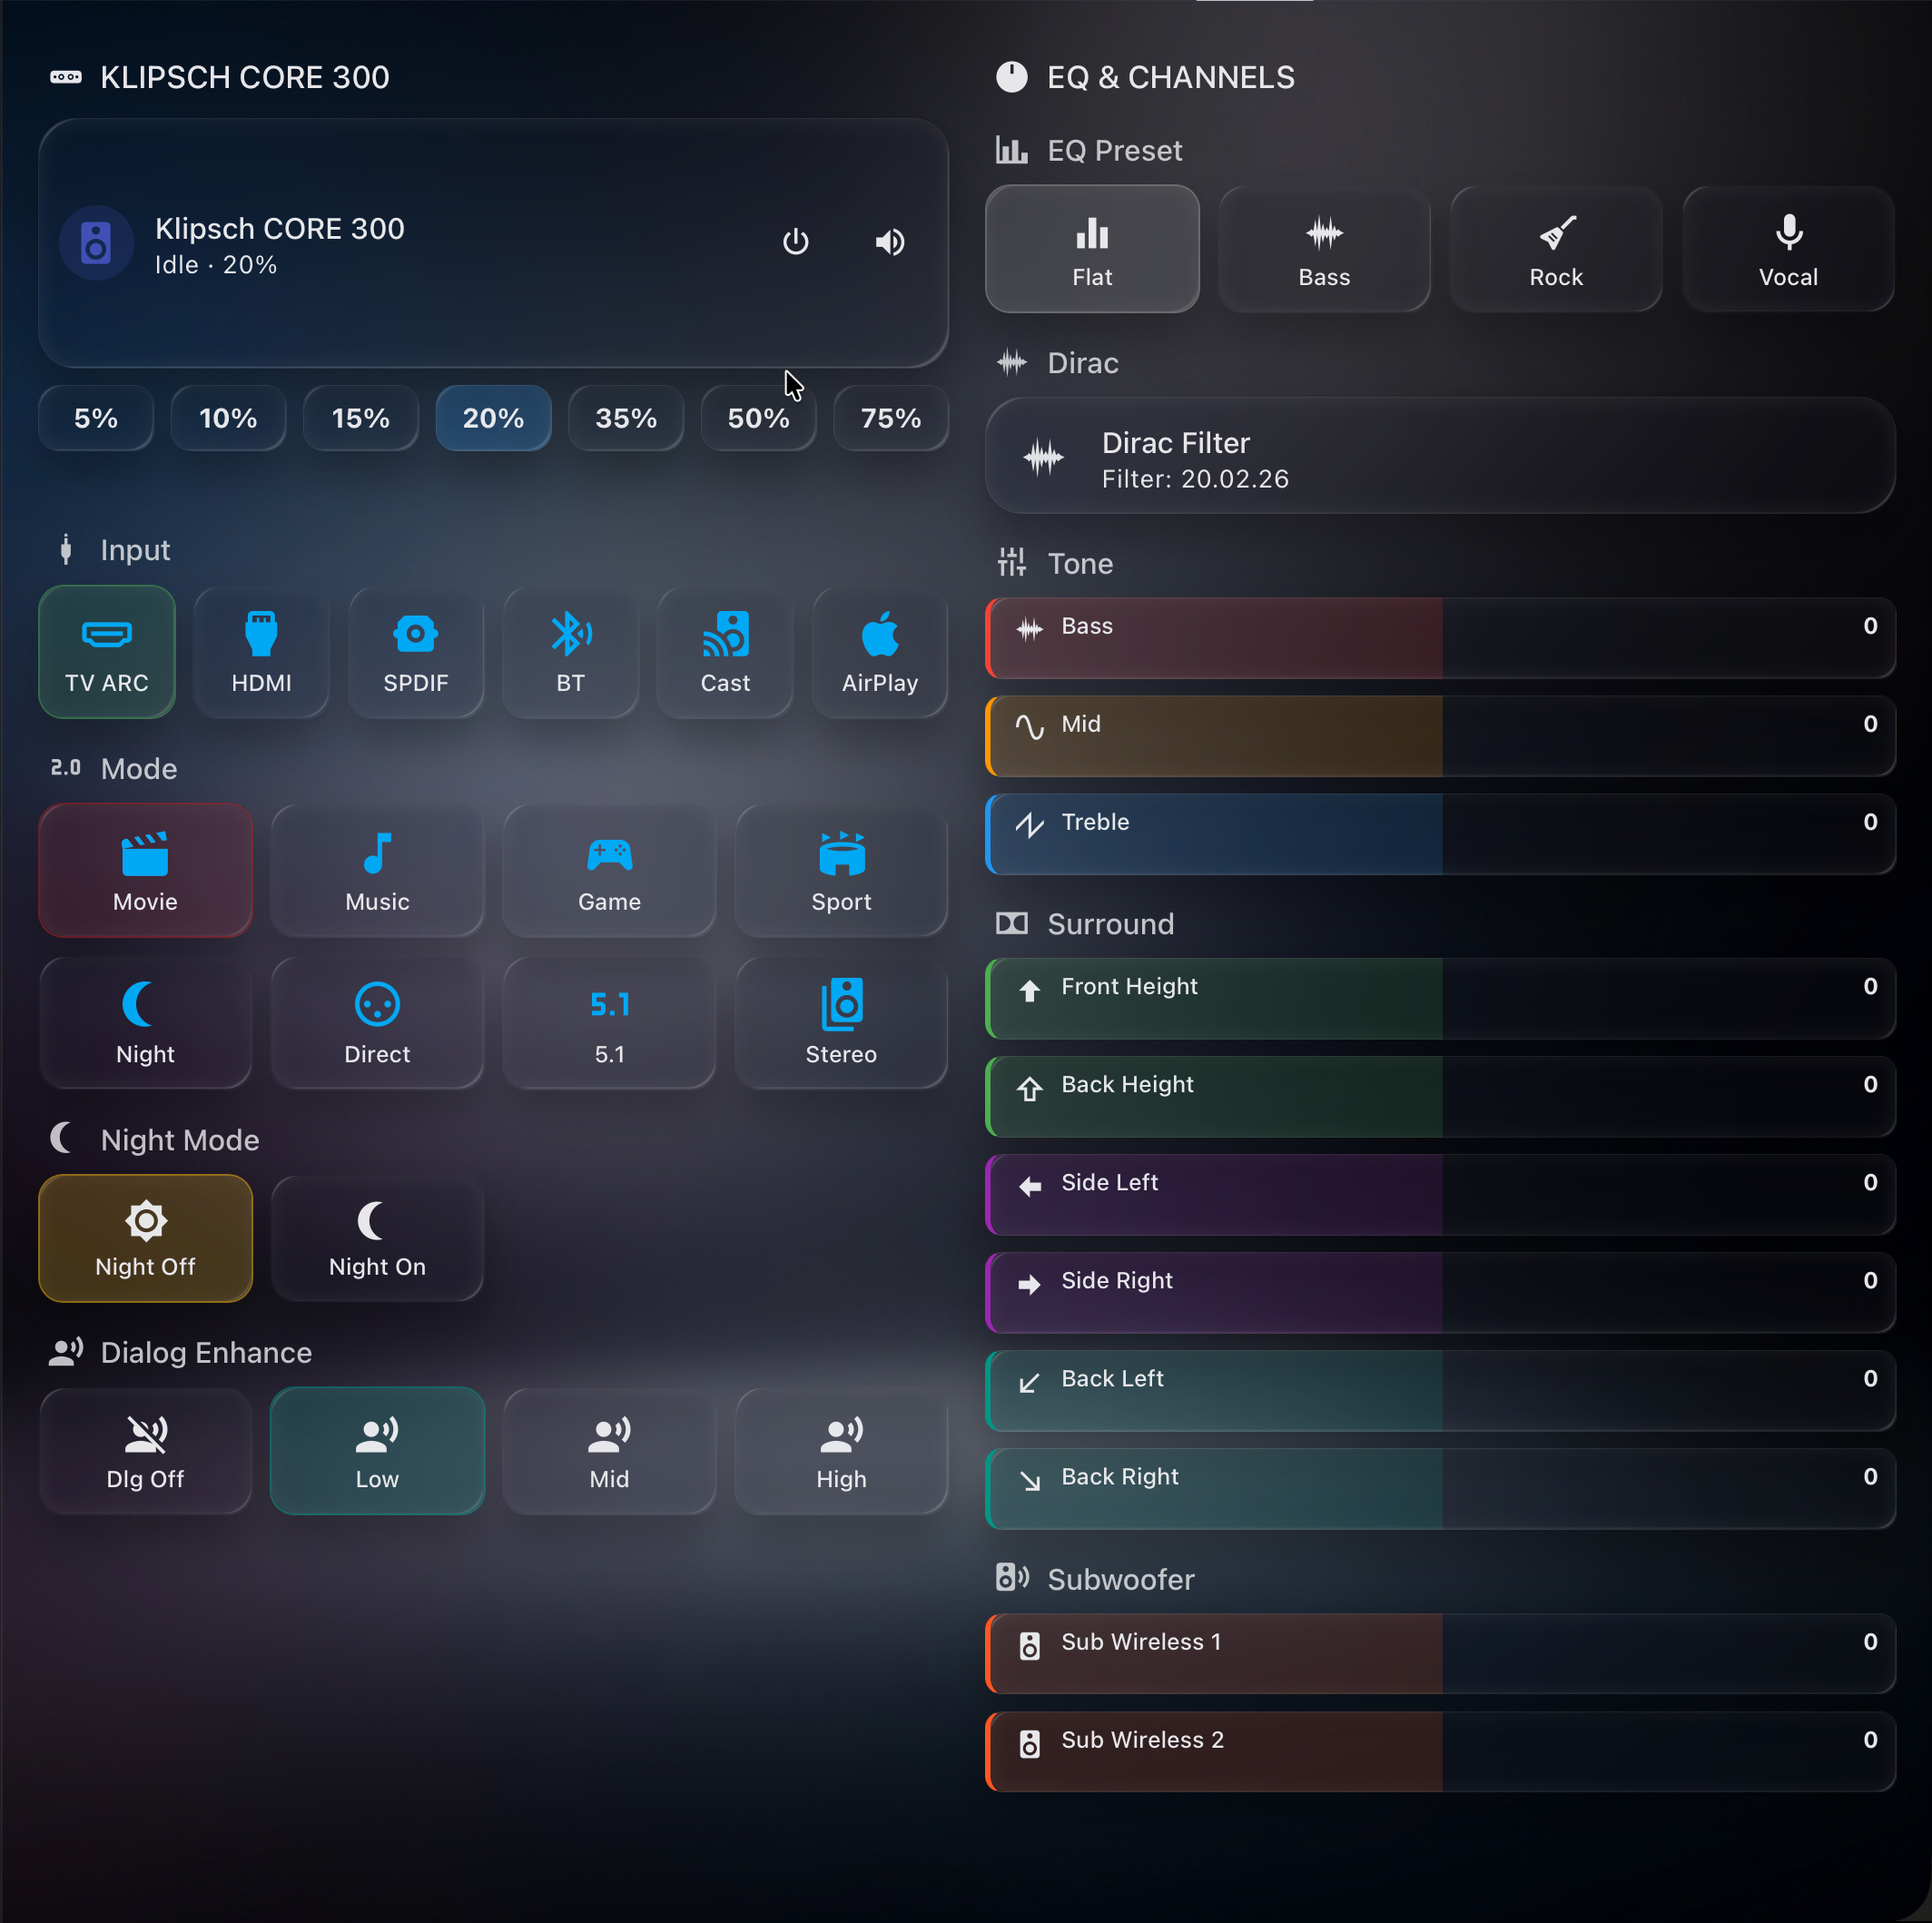
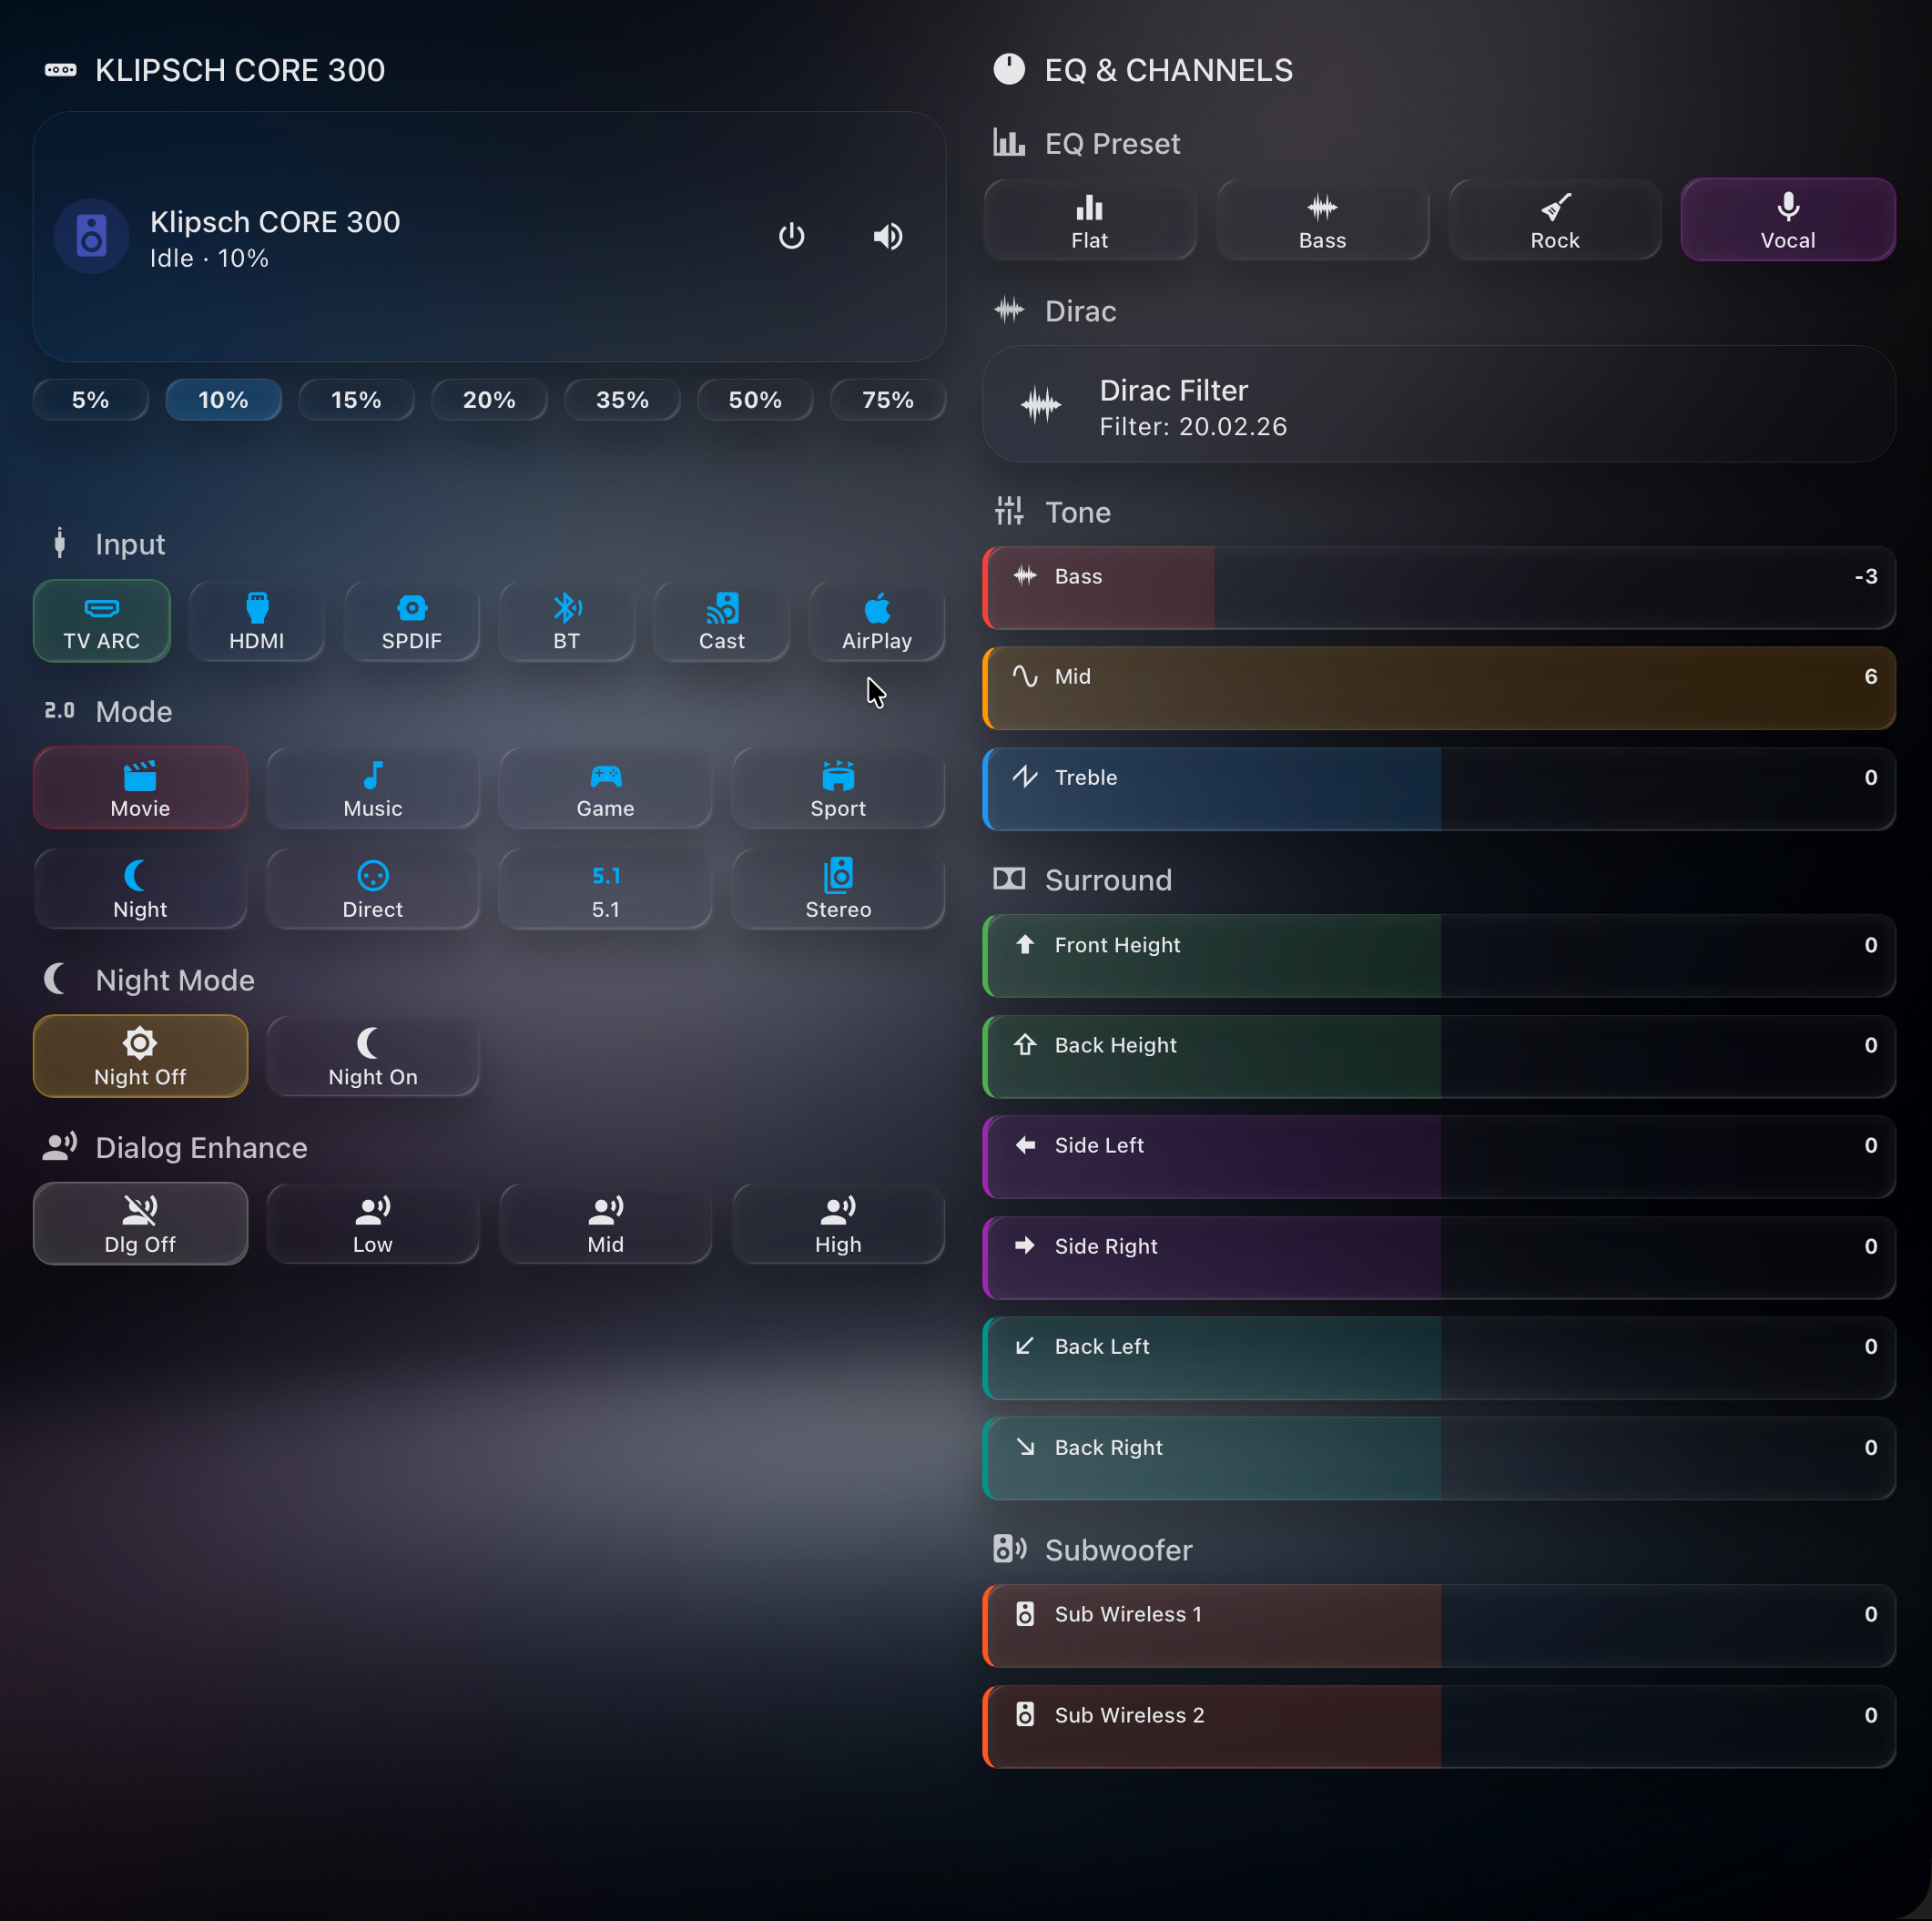
chore: point all URLs/codeowner to the new repo path (ilia-ae/klipsch_flexus)
The repository moved from razqqm/klipsch_flexus to ilia-ae/klipsch_flexus
(the old path still redirects). Update README badges/links (en + ru/de/es/pt),
SECURITY.md, and manifest.json (documentation, issue_tracker, codeowners) to the
canonical owner.

diff --git a/README.md b/README.md
@@ -1,15 +1,15 @@
 # Klipsch Flexus
 
 [![HACS Custom](https://img.shields.io/badge/HACS-Custom-41BDF5.svg?style=for-the-badge)](https://hacs.xyz/)
-[![GitHub Release](https://img.shields.io/github/release/razqqm/klipsch_flexus.svg?style=for-the-badge)](https://github.com/razqqm/klipsch_flexus/releases)
-[![License](https://img.shields.io/github/license/razqqm/klipsch_flexus.svg?style=for-the-badge)](LICENSE)
+[![GitHub Release](https://img.shields.io/github/release/ilia-ae/klipsch_flexus.svg?style=for-the-badge)](https://github.com/ilia-ae/klipsch_flexus/releases)
+[![License](https://img.shields.io/github/license/ilia-ae/klipsch_flexus.svg?style=for-the-badge)](LICENSE)
 [![Auto Discovery](https://img.shields.io/badge/Auto_Discovery-Zeroconf-44cc11.svg?style=for-the-badge)](#auto-discovery)
 
-[![Validate](https://github.com/razqqm/klipsch_flexus/actions/workflows/validate.yaml/badge.svg)](https://github.com/razqqm/klipsch_flexus/actions/workflows/validate.yaml)
-[![Hassfest](https://github.com/razqqm/klipsch_flexus/actions/workflows/hassfest.yaml/badge.svg)](https://github.com/razqqm/klipsch_flexus/actions/workflows/hassfest.yaml)
-[![CI](https://github.com/razqqm/klipsch_flexus/actions/workflows/ci.yaml/badge.svg)](https://github.com/razqqm/klipsch_flexus/actions/workflows/ci.yaml)
-[![CodeQL](https://github.com/razqqm/klipsch_flexus/actions/workflows/github-code-scanning/codeql/badge.svg)](https://github.com/razqqm/klipsch_flexus/actions/workflows/github-code-scanning/codeql)
-[![Copilot](https://img.shields.io/badge/Copilot-Code_Review-8957e5.svg)](https://github.com/razqqm/klipsch_flexus/actions/workflows/copilot-pull-request-reviewer/copilot-pull-request-reviewer)
+[![Validate](https://github.com/ilia-ae/klipsch_flexus/actions/workflows/validate.yaml/badge.svg)](https://github.com/ilia-ae/klipsch_flexus/actions/workflows/validate.yaml)
+[![Hassfest](https://github.com/ilia-ae/klipsch_flexus/actions/workflows/hassfest.yaml/badge.svg)](https://github.com/ilia-ae/klipsch_flexus/actions/workflows/hassfest.yaml)
+[![CI](https://github.com/ilia-ae/klipsch_flexus/actions/workflows/ci.yaml/badge.svg)](https://github.com/ilia-ae/klipsch_flexus/actions/workflows/ci.yaml)
+[![CodeQL](https://github.com/ilia-ae/klipsch_flexus/actions/workflows/github-code-scanning/codeql/badge.svg)](https://github.com/ilia-ae/klipsch_flexus/actions/workflows/github-code-scanning/codeql)
+[![Copilot](https://img.shields.io/badge/Copilot-Code_Review-8957e5.svg)](https://github.com/ilia-ae/klipsch_flexus/actions/workflows/copilot-pull-request-reviewer/copilot-pull-request-reviewer)
 [![Ruff](https://img.shields.io/badge/code%20style-ruff-000000.svg)](https://github.com/astral-sh/ruff)
 
 🌐 **English** | [Русский](docs/README_ru.md) | [Deutsch](docs/README_de.md) | [Español](docs/README_es.md) | [Português](docs/README_pt.md)  

diff --git a/docs/README_de.md b/docs/README_de.md
@@ -1,15 +1,15 @@
 # Klipsch Flexus
 
 [![HACS Custom](https://img.shields.io/badge/HACS-Custom-41BDF5.svg?style=for-the-badge)](https://hacs.xyz/)
-[![GitHub Release](https://img.shields.io/github/release/razqqm/klipsch_flexus.svg?style=for-the-badge)](https://github.com/razqqm/klipsch_flexus/releases)
-[![License](https://img.shields.io/github/license/razqqm/klipsch_flexus.svg?style=for-the-badge)](../LICENSE)
+[![GitHub Release](https://img.shields.io/github/release/ilia-ae/klipsch_flexus.svg?style=for-the-badge)](https://github.com/ilia-ae/klipsch_flexus/releases)
+[![License](https://img.shields.io/github/license/ilia-ae/klipsch_flexus.svg?style=for-the-badge)](../LICENSE)
 [![Auto Discovery](https://img.shields.io/badge/Auto_Discovery-Zeroconf-44cc11.svg?style=for-the-badge)](#automatische-erkennung)
 
-[![Validate](https://github.com/razqqm/klipsch_flexus/actions/workflows/validate.yaml/badge.svg)](https://github.com/razqqm/klipsch_flexus/actions/workflows/validate.yaml)
-[![Hassfest](https://github.com/razqqm/klipsch_flexus/actions/workflows/hassfest.yaml/badge.svg)](https://github.com/razqqm/klipsch_flexus/actions/workflows/hassfest.yaml)
-[![CI](https://github.com/razqqm/klipsch_flexus/actions/workflows/ci.yaml/badge.svg)](https://github.com/razqqm/klipsch_flexus/actions/workflows/ci.yaml)
-[![CodeQL](https://github.com/razqqm/klipsch_flexus/actions/workflows/github-code-scanning/codeql/badge.svg)](https://github.com/razqqm/klipsch_flexus/actions/workflows/github-code-scanning/codeql)
-[![Copilot](https://img.shields.io/badge/Copilot-Code_Review-8957e5.svg)](https://github.com/razqqm/klipsch_flexus/actions/workflows/copilot-pull-request-reviewer/copilot-pull-request-reviewer)
+[![Validate](https://github.com/ilia-ae/klipsch_flexus/actions/workflows/validate.yaml/badge.svg)](https://github.com/ilia-ae/klipsch_flexus/actions/workflows/validate.yaml)
+[![Hassfest](https://github.com/ilia-ae/klipsch_flexus/actions/workflows/hassfest.yaml/badge.svg)](https://github.com/ilia-ae/klipsch_flexus/actions/workflows/hassfest.yaml)
+[![CI](https://github.com/ilia-ae/klipsch_flexus/actions/workflows/ci.yaml/badge.svg)](https://github.com/ilia-ae/klipsch_flexus/actions/workflows/ci.yaml)
+[![CodeQL](https://github.com/ilia-ae/klipsch_flexus/actions/workflows/github-code-scanning/codeql/badge.svg)](https://github.com/ilia-ae/klipsch_flexus/actions/workflows/github-code-scanning/codeql)
+[![Copilot](https://img.shields.io/badge/Copilot-Code_Review-8957e5.svg)](https://github.com/ilia-ae/klipsch_flexus/actions/workflows/copilot-pull-request-reviewer/copilot-pull-request-reviewer)
 [![Ruff](https://img.shields.io/badge/code%20style-ruff-000000.svg)](https://github.com/astral-sh/ruff)
 
 🌐 [English](../README.md) | [Русский](README_ru.md) | **Deutsch** | [Español](README_es.md) | [Português](README_pt.md)

diff --git a/docs/README_es.md b/docs/README_es.md
@@ -1,15 +1,15 @@
 # Klipsch Flexus
 
 [![HACS Custom](https://img.shields.io/badge/HACS-Custom-41BDF5.svg?style=for-the-badge)](https://hacs.xyz/)
-[![GitHub Release](https://img.shields.io/github/release/razqqm/klipsch_flexus.svg?style=for-the-badge)](https://github.com/razqqm/klipsch_flexus/releases)
-[![License](https://img.shields.io/github/license/razqqm/klipsch_flexus.svg?style=for-the-badge)](../LICENSE)
+[![GitHub Release](https://img.shields.io/github/release/ilia-ae/klipsch_flexus.svg?style=for-the-badge)](https://github.com/ilia-ae/klipsch_flexus/releases)
+[![License](https://img.shields.io/github/license/ilia-ae/klipsch_flexus.svg?style=for-the-badge)](../LICENSE)
 [![Auto Discovery](https://img.shields.io/badge/Auto_Discovery-Zeroconf-44cc11.svg?style=for-the-badge)](#descubrimiento-automático)
 
-[![Validate](https://github.com/razqqm/klipsch_flexus/actions/workflows/validate.yaml/badge.svg)](https://github.com/razqqm/klipsch_flexus/actions/workflows/validate.yaml)
-[![Hassfest](https://github.com/razqqm/klipsch_flexus/actions/workflows/hassfest.yaml/badge.svg)](https://github.com/razqqm/klipsch_flexus/actions/workflows/hassfest.yaml)
-[![CI](https://github.com/razqqm/klipsch_flexus/actions/workflows/ci.yaml/badge.svg)](https://github.com/razqqm/klipsch_flexus/actions/workflows/ci.yaml)
-[![CodeQL](https://github.com/razqqm/klipsch_flexus/actions/workflows/github-code-scanning/codeql/badge.svg)](https://github.com/razqqm/klipsch_flexus/actions/workflows/github-code-scanning/codeql)
-[![Copilot](https://img.shields.io/badge/Copilot-Code_Review-8957e5.svg)](https://github.com/razqqm/klipsch_flexus/actions/workflows/copilot-pull-request-reviewer/copilot-pull-request-reviewer)
+[![Validate](https://github.com/ilia-ae/klipsch_flexus/actions/workflows/validate.yaml/badge.svg)](https://github.com/ilia-ae/klipsch_flexus/actions/workflows/validate.yaml)
+[![Hassfest](https://github.com/ilia-ae/klipsch_flexus/actions/workflows/hassfest.yaml/badge.svg)](https://github.com/ilia-ae/klipsch_flexus/actions/workflows/hassfest.yaml)
+[![CI](https://github.com/ilia-ae/klipsch_flexus/actions/workflows/ci.yaml/badge.svg)](https://github.com/ilia-ae/klipsch_flexus/actions/workflows/ci.yaml)
+[![CodeQL](https://github.com/ilia-ae/klipsch_flexus/actions/workflows/github-code-scanning/codeql/badge.svg)](https://github.com/ilia-ae/klipsch_flexus/actions/workflows/github-code-scanning/codeql)
+[![Copilot](https://img.shields.io/badge/Copilot-Code_Review-8957e5.svg)](https://github.com/ilia-ae/klipsch_flexus/actions/workflows/copilot-pull-request-reviewer/copilot-pull-request-reviewer)
 [![Ruff](https://img.shields.io/badge/code%20style-ruff-000000.svg)](https://github.com/astral-sh/ruff)
 
 🌐 [English](../README.md) | [Русский](README_ru.md) | [Deutsch](README_de.md) | **Español** | [Português](README_pt.md)

diff --git a/docs/README_pt.md b/docs/README_pt.md
@@ -1,15 +1,15 @@
 # Klipsch Flexus
 
 [![HACS Custom](https://img.shields.io/badge/HACS-Custom-41BDF5.svg?style=for-the-badge)](https://hacs.xyz/)
-[![GitHub Release](https://img.shields.io/github/release/razqqm/klipsch_flexus.svg?style=for-the-badge)](https://github.com/razqqm/klipsch_flexus/releases)
-[![License](https://img.shields.io/github/license/razqqm/klipsch_flexus.svg?style=for-the-badge)](../LICENSE)
+[![GitHub Release](https://img.shields.io/github/release/ilia-ae/klipsch_flexus.svg?style=for-the-badge)](https://github.com/ilia-ae/klipsch_flexus/releases)
+[![License](https://img.shields.io/github/license/ilia-ae/klipsch_flexus.svg?style=for-the-badge)](../LICENSE)
 [![Auto Discovery](https://img.shields.io/badge/Auto_Discovery-Zeroconf-44cc11.svg?style=for-the-badge)](#descoberta-automática)
 
-[![Validate](https://github.com/razqqm/klipsch_flexus/actions/workflows/validate.yaml/badge.svg)](https://github.com/razqqm/klipsch_flexus/actions/workflows/validate.yaml)
-[![Hassfest](https://github.com/razqqm/klipsch_flexus/actions/workflows/hassfest.yaml/badge.svg)](https://github.com/razqqm/klipsch_flexus/actions/workflows/hassfest.yaml)
-[![CI](https://github.com/razqqm/klipsch_flexus/actions/workflows/ci.yaml/badge.svg)](https://github.com/razqqm/klipsch_flexus/actions/workflows/ci.yaml)
-[![CodeQL](https://github.com/razqqm/klipsch_flexus/actions/workflows/github-code-scanning/codeql/badge.svg)](https://github.com/razqqm/klipsch_flexus/actions/workflows/github-code-scanning/codeql)
-[![Copilot](https://img.shields.io/badge/Copilot-Code_Review-8957e5.svg)](https://github.com/razqqm/klipsch_flexus/actions/workflows/copilot-pull-request-reviewer/copilot-pull-request-reviewer)
+[![Validate](https://github.com/ilia-ae/klipsch_flexus/actions/workflows/validate.yaml/badge.svg)](https://github.com/ilia-ae/klipsch_flexus/actions/workflows/validate.yaml)
+[![Hassfest](https://github.com/ilia-ae/klipsch_flexus/actions/workflows/hassfest.yaml/badge.svg)](https://github.com/ilia-ae/klipsch_flexus/actions/workflows/hassfest.yaml)
+[![CI](https://github.com/ilia-ae/klipsch_flexus/actions/workflows/ci.yaml/badge.svg)](https://github.com/ilia-ae/klipsch_flexus/actions/workflows/ci.yaml)
+[![CodeQL](https://github.com/ilia-ae/klipsch_flexus/actions/workflows/github-code-scanning/codeql/badge.svg)](https://github.com/ilia-ae/klipsch_flexus/actions/workflows/github-code-scanning/codeql)
+[![Copilot](https://img.shields.io/badge/Copilot-Code_Review-8957e5.svg)](https://github.com/ilia-ae/klipsch_flexus/actions/workflows/copilot-pull-request-reviewer/copilot-pull-request-reviewer)
 [![Ruff](https://img.shields.io/badge/code%20style-ruff-000000.svg)](https://github.com/astral-sh/ruff)
 
 🌐 [English](../README.md) | [Русский](README_ru.md) | [Deutsch](README_de.md) | [Español](README_es.md) | **Português**

diff --git a/docs/README_ru.md b/docs/README_ru.md
@@ -1,15 +1,15 @@
 # Klipsch Flexus
 
 [![HACS Custom](https://img.shields.io/badge/HACS-Custom-41BDF5.svg?style=for-the-badge)](https://hacs.xyz/)
-[![GitHub Release](https://img.shields.io/github/release/razqqm/klipsch_flexus.svg?style=for-the-badge)](https://github.com/razqqm/klipsch_flexus/releases)
-[![License](https://img.shields.io/github/license/razqqm/klipsch_flexus.svg?style=for-the-badge)](../LICENSE)
+[![GitHub Release](https://img.shields.io/github/release/ilia-ae/klipsch_flexus.svg?style=for-the-badge)](https://github.com/ilia-ae/klipsch_flexus/releases)
+[![License](https://img.shields.io/github/license/ilia-ae/klipsch_flexus.svg?style=for-the-badge)](../LICENSE)
 [![Auto Discovery](https://img.shields.io/badge/Auto_Discovery-Zeroconf-44cc11.svg?style=for-the-badge)](#автообнаружение)
 
-[![Validate](https://github.com/razqqm/klipsch_flexus/actions/workflows/validate.yaml/badge.svg)](https://github.com/razqqm/klipsch_flexus/actions/workflows/validate.yaml)
-[![Hassfest](https://github.com/razqqm/klipsch_flexus/actions/workflows/hassfest.yaml/badge.svg)](https://github.com/razqqm/klipsch_flexus/actions/workflows/hassfest.yaml)
-[![CI](https://github.com/razqqm/klipsch_flexus/actions/workflows/ci.yaml/badge.svg)](https://github.com/razqqm/klipsch_flexus/actions/workflows/ci.yaml)
-[![CodeQL](https://github.com/razqqm/klipsch_flexus/actions/workflows/github-code-scanning/codeql/badge.svg)](https://github.com/razqqm/klipsch_flexus/actions/workflows/github-code-scanning/codeql)
-[![Copilot](https://img.shields.io/badge/Copilot-Code_Review-8957e5.svg)](https://github.com/razqqm/klipsch_flexus/actions/workflows/copilot-pull-request-reviewer/copilot-pull-request-reviewer)
+[![Validate](https://github.com/ilia-ae/klipsch_flexus/actions/workflows/validate.yaml/badge.svg)](https://github.com/ilia-ae/klipsch_flexus/actions/workflows/validate.yaml)
+[![Hassfest](https://github.com/ilia-ae/klipsch_flexus/actions/workflows/hassfest.yaml/badge.svg)](https://github.com/ilia-ae/klipsch_flexus/actions/workflows/hassfest.yaml)
+[![CI](https://github.com/ilia-ae/klipsch_flexus/actions/workflows/ci.yaml/badge.svg)](https://github.com/ilia-ae/klipsch_flexus/actions/workflows/ci.yaml)
+[![CodeQL](https://github.com/ilia-ae/klipsch_flexus/actions/workflows/github-code-scanning/codeql/badge.svg)](https://github.com/ilia-ae/klipsch_flexus/actions/workflows/github-code-scanning/codeql)
+[![Copilot](https://img.shields.io/badge/Copilot-Code_Review-8957e5.svg)](https://github.com/ilia-ae/klipsch_flexus/actions/workflows/copilot-pull-request-reviewer/copilot-pull-request-reviewer)
 [![Ruff](https://img.shields.io/badge/code%20style-ruff-000000.svg)](https://github.com/astral-sh/ruff)
 
 🌐 [English](../README.md) | **Русский** | [Deutsch](README_de.md) | [Español](README_es.md) | [Português](README_pt.md)

diff --git a/SECURITY.md b/SECURITY.md
@@ -11,7 +11,7 @@ We take the security of Klipsch Flexus integration seriously. If you discover a 
 Instead, please report them privately by:
 
 1. **GitHub Security Advisories** (preferred):
-   - Go to https://github.com/razqqm/klipsch_flexus/security/advisories
+   - Go to https://github.com/ilia-ae/klipsch_flexus/security/advisories
    - Click "New draft security advisory"
    - Fill in the details of the vulnerability
 